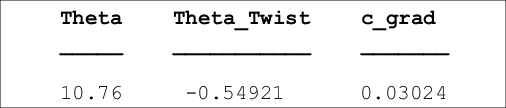
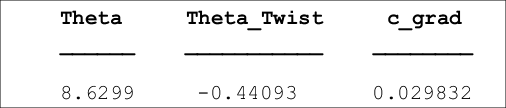
Decrease search space for multistart

diff --git a/main_loopedmulti.m b/main_loopedmulti.m
@@ -27,7 +27,7 @@ tic;
 
 globaldata.maxiters=100;
 
-paramStepSize=[8,3,2];
+paramStepSize=[4,3,2];
 globaldata.ms.loops=prod(paramStepSize);
 progressbar('Optimisation');
 
